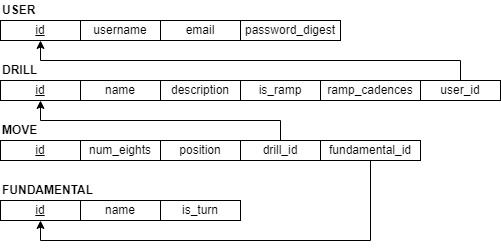
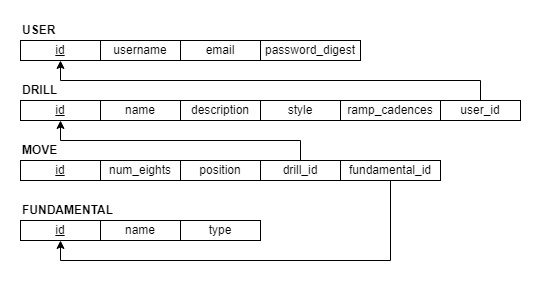
Update doc

Changed region(s): [[0.0, 0.0, 1.0, 0.8996], [0.0, 0.7028, 0.7186, 0.9277], [0.0898, 0.9558, 0.7485, 0.9839]]

diff --git a/README.md b/README.md
@@ -41,7 +41,11 @@ Below is a brief description of each table and attribute as found in the relatio
 * `id:integer` - Primary key, generated automatically by `ActiveRecord`
 * `name:string` - The name of the drill
 * `description:text` - The description of the drill
-* `is_ramp:boolean` - Whether the drill is a ramp drill or not. This affects how the drill is displayed.
+* `style:integer` - Enum value representing the style of the drill. This affects how the drill is displayed. The enum values are as follows:
+    * 0: Horns down
+    * 1: Horns up, keep horn up at the end
+    * 2: Horns up, horns down at the end
+    * 3: Ramp drill
 * `ramp_cadences:integer` - The number of ramp cadences; only used if the drill is a ramp drill. If it is a ramp drill and the value of this attribute is 0, it is interpreted as *"cadences ad infinitum"* when displaying the drill.
 * `user_id:integer` - Foreign key to the ID of the user that wrote the drill
 
@@ -55,7 +59,13 @@ Below is a brief description of each table and attribute as found in the relatio
 ### `Fundamentals` - OSUMB fundamentals building blocks. Only modified during initial database seeding.
 * `id:integer` - Primary key, generated automatically by `ActiveRecord`
 * `name:string` - The name of the fundamental
-* `is_turn:boolean` - Whether the move represents a turn (e.g., right flank, box TTR) or not (e.g., forward march, left lateral slide)
+* `type:integer` - Enum value representing the type of the move. This affects which types of moves can precede or follow the current move. The enum values are as follows:
+    * 0: Forward move (e.g., forward march, 6-to-5 adjusted step, right oblique 8-to-5)
+    * 1: Backward or lateral move (e.g., backward march, left lateral slide, step sides)
+    * 2: Horn slide (e.g., right horn slide)
+    * 3: Turn (e.g., right flank, slow turn left 180 degrees in 8 counts)
+    * 4: TTR (e.g., regular TTR, slide TTR on 4)
+    * 5: Hats off. Note that this type of move is only allowed in a horns up drill. If this move is the last move of the drill, it will be rendered as *"Hats off Ohio"*. If this move is anywhere else in the drill, it will be rendered as *"Hats off rest 1-2-3"*.
 
 ---
 
